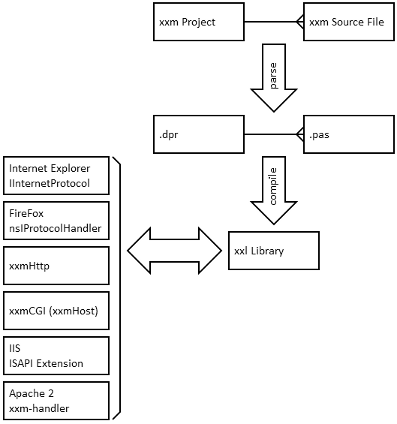
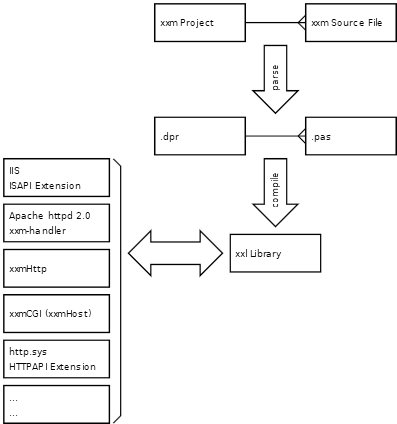
readme

diff --git a/README.md b/README.md
@@ -7,10 +7,9 @@ xxm enables you to create dynamic websites in Delphi, combining both Delphi and 
 <img src="Delphi/docs/overview1.png" align="right" hspace="8" width="397" height="424" />
 An xxm project contains source-files that hold both HTML and Object Pascal source code. These are converted (e.g. by the auto-compile on refresh feature) into a plain Delphi project, which is compiled into a xxm Library (with the `.xxl` file extension). This xxm Library can be loaded by one of the xxm handlers:
 
-* an IInternetProtocol implementation that plugs into Internet Explorer
 * an ISAPI extension that plugs into IIS
 * an Apache 2 module
-* a process that uses HTTPAPI
+* a process that uses HTTPAPI (http.sys)
 * a stand-alone basic HTTP server
 * an old-fashioned CGI application
 * an SCGI server process
